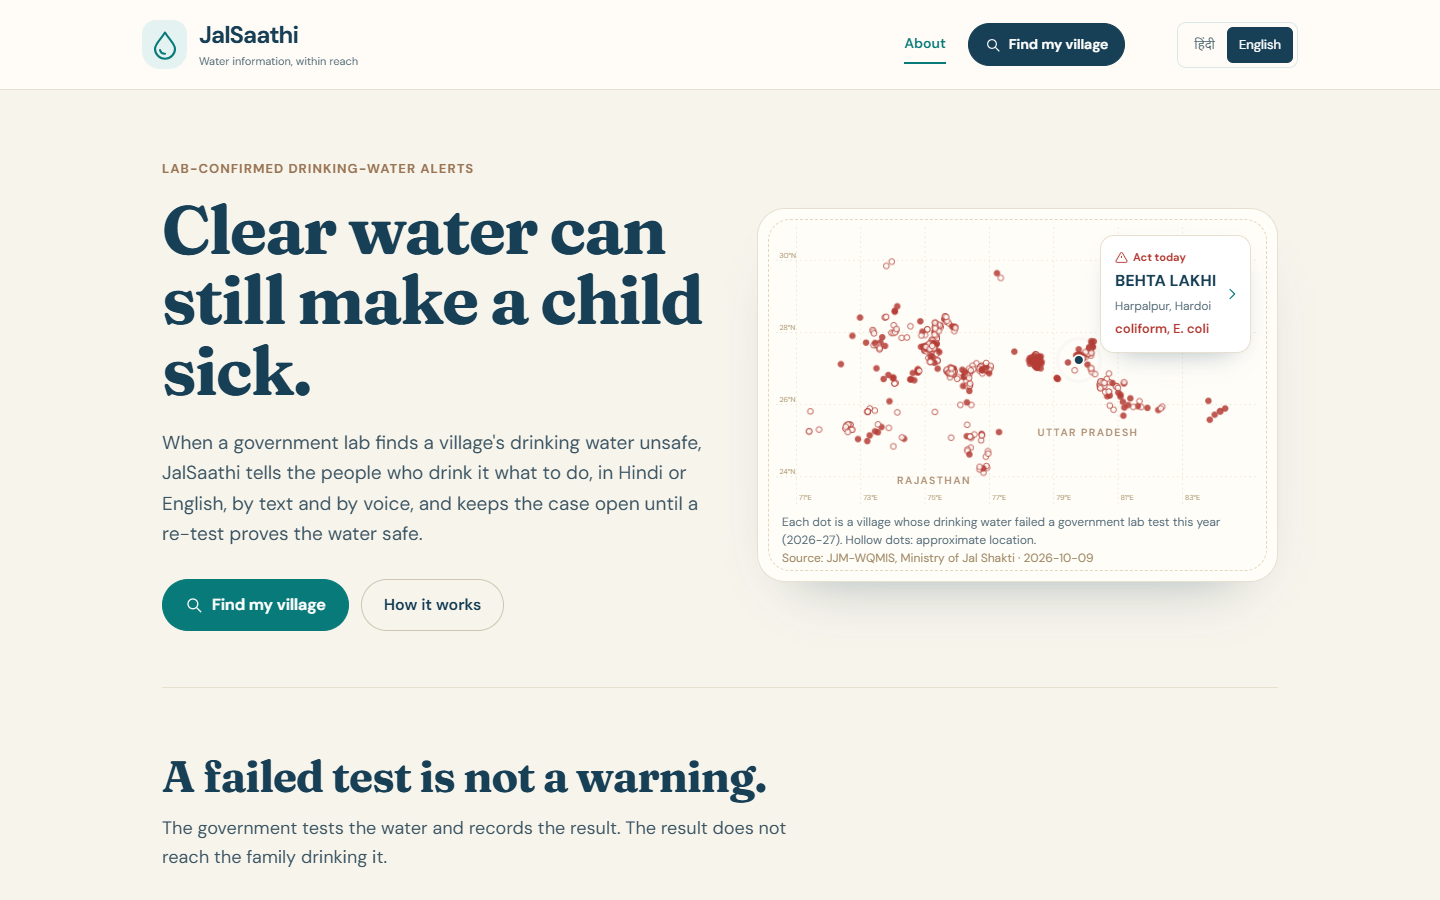
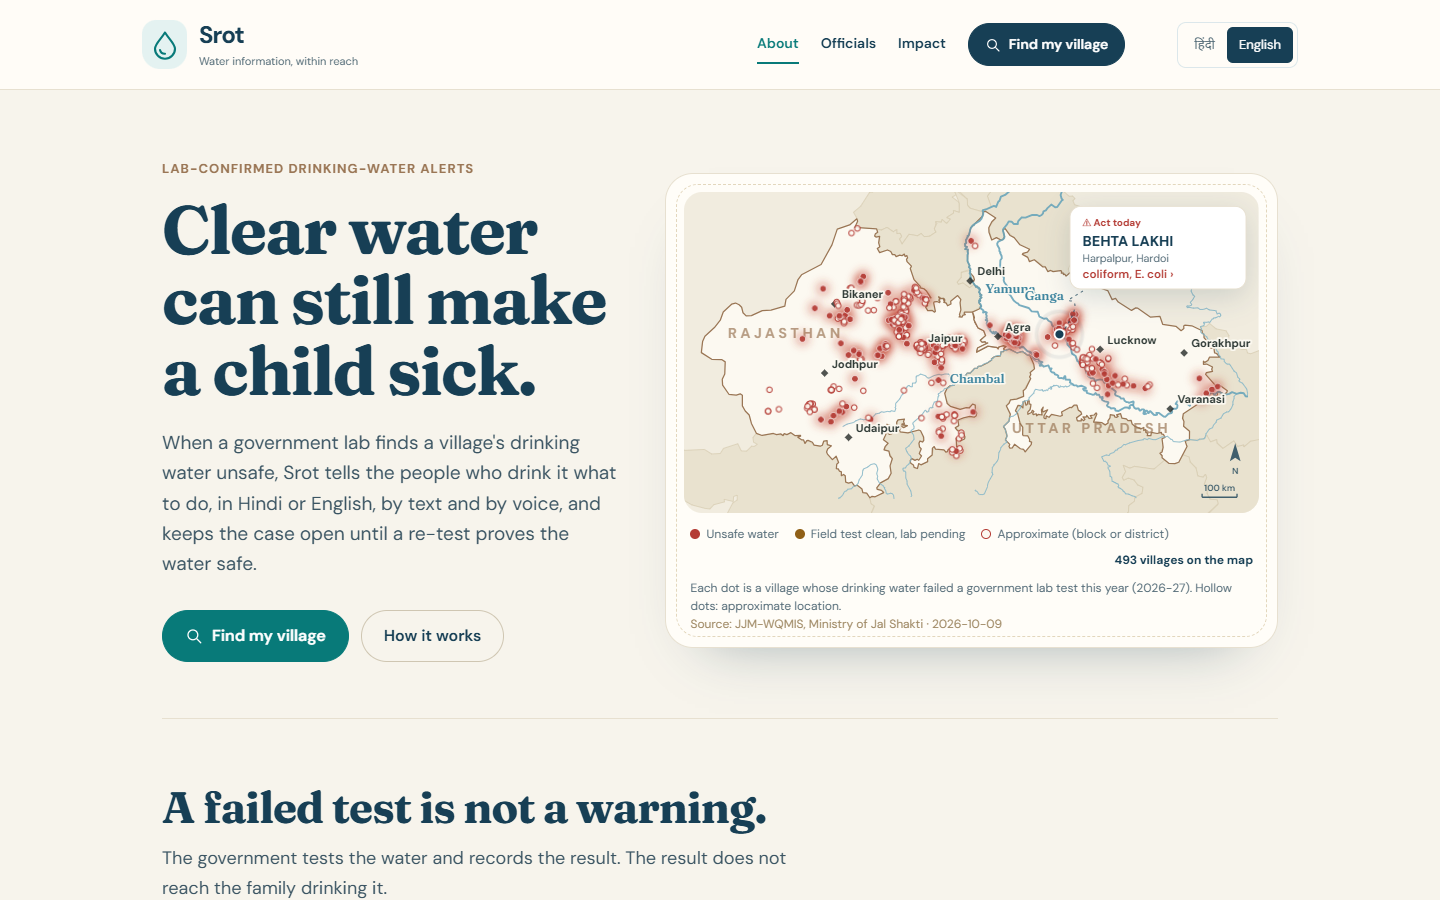
fix: one cost figure everywhere, a complete architecture diagram, Srot screenshots
- /stats scale_run now carries the scale run's own cost estimate; the Impact page
  shows it ($0.4277 for 560 cases), matching the README, submission and video.
  It used to show the last ingest (13 demo cases with voice notes, $0.0098 per case),
  12x the per-case figure quoted everywhere else.
- Architecture diagram redrawn as four lanes in story order, naming every AWS
  service the system uses (Transcribe, Translate, Strands on Bedrock, Guardrails,
  Verified Permissions, Nova vision, SES, Scheduler, X-Ray, CloudWatch were missing);
  no crossing lines; scrolls sideways on phones instead of shrinking.
- docs/img screenshots retaken from the live site after the rename to Srot.
- hotdeploy --code rebuilds the Lambda bundle first (it deployed a stale bundle).
- set_webhook.py also sets the bot's short description.

diff --git a/app/src/pages/Impact.jsx b/app/src/pages/Impact.jsx
@@ -9,75 +9,85 @@ function secs(s) {
   return s < 120 ? `${Math.round(s)} s` : s < 7200 ? `${Math.round(s / 60)} min` : `${(s / 3600).toFixed(1)} h`;
 }
 
-function Box({ x, y, w, h, title, sub, tone = "aws" }) {
+function Box({ x, y, w = 236, h = 60, title, sub, tone = "aws" }) {
   const fill = { aws: "#fff7ec", data: "#eef7fb", people: "#eef8f1", policy: "#fbeeee" }[tone];
   const stroke = { aws: "#e08a00", data: "#1d5a78", people: "#23804f", policy: "#c2412d" }[tone];
   return (
     <g>
       <rect x={x} y={y} width={w} height={h} rx="10" fill={fill} stroke={stroke} strokeWidth="1.5" />
-      <text x={x + w / 2} y={y + (sub ? h / 2 - 3 : h / 2 + 5)} textAnchor="middle" fontSize="14" fontWeight="700" fill="#0b2a3c">{title}</text>
-      {sub && <text x={x + w / 2} y={y + h / 2 + 15} textAnchor="middle" fontSize="11.5" fill="#587080">{sub}</text>}
+      <text x={x + w / 2} y={y + (sub ? h / 2 - 4 : h / 2 + 5)} textAnchor="middle" fontSize="14" fontWeight="700" fill="#0b2a3c">{title}</text>
+      {sub && <text x={x + w / 2} y={y + h / 2 + 14} textAnchor="middle" fontSize="11.5" fill="#587080">{sub}</text>}
     </g>
   );
 }
 
-function Arrow({ d, label, lx, ly }) {
-  return (
-    <g>
-      <path d={d} fill="none" stroke="#587080" strokeWidth="1.6" markerEnd="url(#arrow)" />
-      {label && <text x={lx} y={ly} fontSize="11" fill="#587080" textAnchor="middle">{label}</text>}
-    </g>
-  );
-}
+// Four lanes, read left to right, top to bottom: the same order as the story on the About page.
+const COLS = [24, 296, 568, 840];
+const LANES = [
+  { title: "1 · A FAILED LAB TEST BECOMES A CASE", boxes: [
+    { title: "JJM-WQMIS portal", sub: "government lab results", tone: "data" },
+    { title: "Ingest Lambda", sub: "EventBridge Scheduler · parse · guard" },
+    { title: "Step Functions Distributed Map", sub: "560 cases opened, 0 failed" },
+    { title: "Step Functions, one per case", sub: "task tokens · deadlines · escalation" }] },
+  { title: "2 · THE VILLAGE IS WARNED", boxes: [
+    { title: "Case-step Lambda", sub: "advice for this contaminant" },
+    { title: "Amazon Polly", sub: "Kajal voice, Hindi + English" },
+    { title: "Telegram bot + Web Push", sub: "Lambda function URL · app alerts" },
+    { title: "Health worker, villagers", sub: "Hindi or English, text and voice", tone: "people" }] },
+  { title: "3 · THEY ASK BY VOICE (ASK SROT)", boxes: [
+    { title: "Amazon Transcribe", sub: "streaming, Hindi voice notes" },
+    { title: "Amazon Translate", sub: "Hindi ⇄ English" },
+    { title: "Strands agent · Bedrock", sub: "Nova Pro, reads only this village" },
+    { title: "Bedrock Guardrails", sub: "grounded, or the official advice", tone: "policy" }] },
+  { title: "4 · SOMEONE MUST FIX IT", boxes: [
+    { title: "Block engineer", sub: "logs the fix: web link or Telegram", tone: "people" },
+    { title: "Bedrock · Nova Pro vision", sub: "reads the field-kit vial (advice only)" },
+    { title: "Amazon Verified Permissions", sub: "Cedar: only a lab pass closes", tone: "policy" },
+    { title: "Amazon SES", sub: "overdue cases → district official" }] },
+];
+const FOUNDATION = ["Amazon DynamoDB", "Amazon S3", "Amazon CloudFront", "Amazon API Gateway", "AWS Lambda",
+  "Amazon Location Service", "Amazon EventBridge Scheduler", "AWS Systems Manager Parameter Store", "AWS X-Ray",
+  "Amazon CloudWatch dashboard + metrics", "AWS CDK"];
 
 export function Architecture() {
+  const laneY = (i) => 34 + i * 104;
+  let cx = 24, cy = 482;
+  const chips = FOUNDATION.map((name) => {
+    const w = Math.round(18 + name.length * 6.7);
+    if (cx + w > 1076) { cx = 24; cy += 40; }
+    const chip = { name, x: cx, y: cy, w };
+    cx += w + 10;
+    return chip;
+  });
+  const H = cy + 74;
   return (
-    <svg className="arch" viewBox="0 0 1100 560" role="img" aria-label="Srot architecture on AWS">
-      <defs>
-        <marker id="arrow" viewBox="0 0 10 10" refX="9" refY="5" markerWidth="7" markerHeight="7" orient="auto-start-reverse">
-          <path d="M0 0 L10 5 L0 10 z" fill="#587080" />
-        </marker>
-      </defs>
-      <text x="24" y="34" fontSize="13" fontWeight="700" fill="#587080">DATA</text>
-      <Box x={24} y={48} w={190} h={64} title="JJM-WQMIS portal" sub="government lab results" tone="data" />
-      <Box x={24} y={140} w={190} h={64} title="EventBridge" sub="daily schedule" />
-      <Box x={260} y={92} w={190} h={64} title="Ingest Lambda" sub="parse · guard · plan cases" />
-      <Box x={260} y={186} w={190} h={64} title="Amazon Location" sub="geocode, checked by name" />
-      <Box x={500} y={48} w={200} h={64} title="DynamoDB" sub="villages · cases · timeline" />
-      <Box x={500} y={140} w={200} h={64} title="S3" sub="snapshot · voice notes · photos" />
-
-      <text x="24" y="292" fontSize="13" fontWeight="700" fill="#587080">ONE WORKFLOW PER CASE</text>
-      <Box x={24} y={306} w={210} h={64} title="Step Functions ScaleRun" sub="Distributed Map, ~1 case/s" />
-      <Box x={280} y={306} w={210} h={64} title="Step Functions case" sub="task tokens · deadlines" />
-      <Box x={540} y={306} w={170} h={64} title="Cedar policy" sub="close needs lab pass" tone="policy" />
-      <Box x={280} y={400} w={210} h={64} title="Case-step Lambda" sub="alert · escalate · close" />
-      <Box x={540} y={400} w={170} h={64} title="Amazon Polly" sub="Kajal: Hindi + English" />
-
-      <text x="760" y="34" fontSize="13" fontWeight="700" fill="#587080">PEOPLE</text>
-      <Box x={760} y={48} w={300} h={64} title="Web app (this site)" sub="S3 + CloudFront · Web Push" tone="people" />
-      <Box x={760} y={140} w={300} h={64} title="API Gateway + API Lambda" sub="village, engineer, relay, officials" />
-      <Box x={760} y={232} w={300} h={64} title="Telegram bot" sub="Lambda function URL webhook" tone="people" />
-      <Box x={760} y={324} w={300} h={64} title="Amazon Bedrock · Nova Pro" sub="reads the field-kit photo (advice only)" />
-      <Box x={760} y={416} w={300} h={64} title="Villagers · relays · engineers" sub="Hindi or English, phone first" tone="people" />
-
-      <Arrow d="M214 80 L258 112" />
-      <Arrow d="M214 172 L258 132" />
-      <Arrow d="M355 156 L355 184" />
-      <Arrow d="M450 112 L498 86" />
-      <Arrow d="M450 128 L498 166" />
-      <Arrow d="M355 250 C 355 280 130 280 130 304" label="many cases" lx="240" ly="276" />
-      <Arrow d="M234 338 L278 338" />
-      <Arrow d="M385 370 L385 398" />
-      <Arrow d="M490 338 L538 338" label="every action" lx="514" ly="330" />
-      <Arrow d="M490 432 L538 432" />
-      <Arrow d="M600 112 C 650 112 700 172 758 172" />
-      <Arrow d="M490 418 C 640 418 680 264 758 264" label="alerts" lx="680" ly="300" />
-      <Arrow d="M910 112 L910 138" />
-      <Arrow d="M910 204 L910 230" />
-      <Arrow d="M910 296 L910 322" />
-      <Arrow d="M910 388 L910 414" />
-      <text x="24" y="530" fontSize="12" fill="#587080">AWS CDK (Python) deploys everything in one stack · ap-south-1 (Mumbai) · CloudWatch alarm on ingest failures</text>
-    </svg>
+    <div className="arch-scroll">
+      <svg className="arch" viewBox={`0 0 1100 ${H}`} role="img" aria-label="Srot architecture on AWS">
+        <defs>
+          <marker id="arrow" viewBox="0 0 10 10" refX="9" refY="5" markerWidth="7" markerHeight="7" orient="auto-start-reverse">
+            <path d="M0 0 L10 5 L0 10 z" fill="#587080" />
+          </marker>
+        </defs>
+        {LANES.map((lane, i) => (
+          <g key={lane.title}>
+            <text x="24" y={laneY(i)} fontSize="12.5" fontWeight="700" letterSpacing="0.06em" fill="#587080">{lane.title}</text>
+            {lane.boxes.map((b, j) => <Box key={b.title} x={COLS[j]} y={laneY(i) + 12} {...b} />)}
+            {[0, 1, 2].map((j) => (
+              <path key={j} d={`M${COLS[j] + 238} ${laneY(i) + 42} L${COLS[j + 1] - 3} ${laneY(i) + 42}`}
+                fill="none" stroke="#587080" strokeWidth="1.6" markerEnd="url(#arrow)" />
+            ))}
+          </g>
+        ))}
+        <text x="24" y="470" fontSize="12.5" fontWeight="700" letterSpacing="0.06em" fill="#587080">UNDER ALL OF IT</text>
+        {chips.map((c) => (
+          <g key={c.name}>
+            <rect x={c.x} y={c.y} width={c.w} height="28" rx="14" fill="#f4f7f8" stroke="#c9d6dc" />
+            <text x={c.x + c.w / 2} y={c.y + 18.5} textAnchor="middle" fontSize="12" fill="#0b2a3c">{c.name}</text>
+          </g>
+        ))}
+        <text x="24" y={H - 16} fontSize="12" fill="#587080">One stack, deployed with AWS CDK (Python) to ap-south-1 (Mumbai). Every Lambda and workflow is traced in X-Ray.</text>
+      </svg>
+    </div>
   );
 }
 
@@ -88,7 +98,7 @@ export default function Impact() {
   if (error && !s) return <div className="wrap" style={{ padding: "24px 16px" }}><ErrorBox error={error} onRetry={reload} /></div>;
   const rep = s.repeat_failures;
   const scale = s.scale_run;
-  const cost = s.last_run && s.last_run.cost_estimate;
+  const cost = (scale && scale.cost_estimate) || (s.last_run && s.last_run.cost_estimate); // the scale run, the number quoted elsewhere
   const located = s.villages_on_map;
   const maxBar = rep ? Math.max(...rep.by_state_and_parameter.map((r) => r.failed_last_year)) : 1;
   return (
@@ -104,7 +114,7 @@ export default function Impact() {
         {rep && <div className="card"><b>{rep.totals.both}</b>villages failed the same test again the next year ({Math.round(rep.totals.share_of_last_year_failing_again * 1000) / 10}% of last year's, with half a year still to come)</div>}
         {scale && scale.items && <div className="card"><b>{scale.items.succeeded}/{scale.items.total}</b>case workflows started in one paced run, {scale.items.failed} failed, {secs(scale.seconds)}</div>}
         {s.alert_latency && <div className="card"><b>{secs(s.alert_latency.median_s)}</b>median from failed test found to village warned (p95 {secs(s.alert_latency.p95_s)})</div>}
-        {cost && <div className="card"><b>${cost.usd_total}</b>estimated AWS cost of the last ingest ({cost.usd_per_case ? `$${cost.usd_per_case} per case` : "–"}); voice notes are made only when someone listens</div>}
+        {cost && <div className="card"><b>${cost.usd_total}</b>estimated AWS cost of {scale && scale.cost_estimate ? "the scale run" : "the last ingest"} ({cost.usd_per_case ? `$${cost.usd_per_case} per case` : "–"}); voice notes are made only when someone listens</div>}
         <div className="card weak"><b>{s.villages - located}</b>villages without a trustworthy map pin; most pins are block or district centres, drawn hollow</div>
         <div className="card weak"><b>Simulated</b>lab re-tests in the demo. Real closure needs the lab's re-test result; the field kit only marks a case provisionally safe</div>
       </div>

diff --git a/app/src/styles.css b/app/src/styles.css
@@ -221,6 +221,8 @@ table.data tr.click:hover td { background: #f7fafb; }
 .bars .track span.both { background: var(--red); }
 @media (max-width: 560px) { .bars .bar-row { grid-template-columns: 110px 1fr 56px; } }
 .arch { width: 100%; height: auto; background: #fff; border-radius: var(--radius); border: 1px solid var(--line); }
+.arch-scroll { overflow-x: auto; -webkit-overflow-scrolling: touch; }
+.arch-scroll .arch { display: block; min-width: 880px; }
 
 footer { padding: 30px 0 50px; color: var(--muted); font-size: 13px; }
 .skeleton { background: linear-gradient(90deg, #e9f0f2 25%, #f5f9fa 50%, #e9f0f2 75%); background-size: 200% 100%; animation: shimmer 1.2s infinite; border-radius: 10px; min-height: 18px; }

diff --git a/tests/test_app.py b/tests/test_app.py
@@ -185,3 +185,18 @@ def test_demo_link_works_only_on_demo_cases(monkeypatch, recorded):
     assert _call("POST", "/api/v1/engineer/5037/fix", {"case_id": demo_case["case_id"], "action": "chlorination", "k": "demo"})[0] == 200
     assert _call("POST", "/api/v1/engineer/5037/fix", {"case_id": "c-real", "action": "chlorination", "k": "demo"})[0] == 401
     assert _call("GET", "/api/v1/access", query={"role": "e", "key": "5037", "k": "demo"}) == (200, {"valid": True, "demo": True})
+
+
+def test_scale_status_carries_the_scale_runs_cost(monkeypatch):
+    from datetime import datetime, timezone
+
+    from jalsaathi import api
+
+    t0, t1 = datetime(2026, 10, 9, 18, 33, tzinfo=timezone.utc), datetime(2026, 10, 9, 18, 43, tzinfo=timezone.utc)
+    sfn = type("S", (), {
+        "describe_execution": lambda self, **k: {"status": "SUCCEEDED", "startDate": t0, "stopDate": t1},
+        "list_map_runs": lambda self, **k: {"mapRuns": [{"mapRunArn": "m"}]},
+        "describe_map_run": lambda self, **k: {"itemCounts": {"total": 560, "succeeded": 560, "failed": 0}}})()
+    monkeypatch.setattr(api.config, "client", lambda name: sfn)
+    out = api._scale_status({"scale_execution_arn": "arn", "new_cases": 560, "cost_estimate": {"usd_total": 0.4277}})
+    assert out["items"]["succeeded"] == 560 and out["cost_estimate"]["usd_total"] == 0.4277 and out["cases"] == 560

diff --git a/scripts/hotdeploy.py b/scripts/hotdeploy.py
@@ -2,7 +2,7 @@
 
 Pushes exactly what the CDK stack already declares, so the next `cdk deploy` finds nothing new to change:
 Lambda code and dependency layer, the CloudFront routing function, S3 CORS for photo uploads, the API's Bedrock
-permission, and the web app in frontend/dist. Run scripts/build.py and `npm run build` (in frontend/) first.
+permission, and the web app in frontend/dist. --code rebuilds the Lambda bundle itself; run `npm run build` (in frontend/ and app/) before --site.
 
 Usage: python scripts/hotdeploy.py [--code] [--infra] [--observability] [--site]   (no flags = everything)
 """
@@ -12,6 +12,7 @@ from __future__ import annotations
 import io
 import mimetypes
 import re
+import subprocess
 import sys
 import time
 import zipfile
@@ -172,6 +173,8 @@ def _upload(out: dict, dist: Path, prefix: str) -> None:
 if __name__ == "__main__":
     flags = set(sys.argv[1:]) or {"--code", "--infra", "--observability", "--site"}
     if "--code" in flags:
+        # Rebuild first: zipping a stale build/lambda would silently deploy old code
+        subprocess.run([sys.executable, str(ROOT / "scripts" / "build.py")], check=True)
         deploy_code()
     if "--infra" in flags:
         deploy_infra()

diff --git a/scripts/set_webhook.py b/scripts/set_webhook.py
@@ -15,5 +15,6 @@ telegram("setMyCommands", commands=[
 ])
 telegram("setMyDescription", description=("Srot: सरकारी लैब जांच में आपके गाँव का पानी असुरक्षित पाया जाए तो सूचना, "
                                           "सही सावधानी, और ठीक होने तक मामले पर नज़र। Hindi and English: send /english."))
+telegram("setMyShortDescription", short_description="Srot: village drinking-water alerts from government lab tests, in Hindi and English, with voice notes.")
 info = telegram("getWebhookInfo")["result"]
 print("webhook:", info.get("url") == url, "pending:", info.get("pending_update_count"), "last error:", info.get("last_error_message"))

diff --git a/src/jalsaathi/api.py b/src/jalsaathi/api.py
@@ -63,7 +63,8 @@ def _scale_status(run: dict | None) -> dict | None:
         return None
     sfn = config.client("stepfunctions")
     ex = sfn.describe_execution(executionArn=arn)
-    out = {"status": ex["status"], "started": ex["startDate"].isoformat()}
+    out = {"status": ex["status"], "started": ex["startDate"].isoformat(),
+           "cost_estimate": run.get("cost_estimate"), "cases": run.get("new_cases")}  # the run judged at scale
     if ex.get("stopDate"):
         out.update(stopped=ex["stopDate"].isoformat(), seconds=round((ex["stopDate"] - ex["startDate"]).total_seconds(), 1))
     runs = sfn.list_map_runs(executionArn=arn).get("mapRuns", [])

diff --git a/docs/API.md b/docs/API.md
@@ -99,15 +99,16 @@ A `CaseView` with timeline.
               "finished_at": "...",
               "cost_estimate": {"usd_total": 0.13, "usd_per_case": 0.0098, "usd_by_service": {"polly": 0.12, "...": 0},
                                 "assumptions": {"prices": "approximate on-demand list prices ...", "...": "..."}}},
- "scale_run": {"status": "SUCCEEDED", "started": "...", "stopped": "...", "seconds": 640.2,
-               "items": {"total": 580, "succeeded": 580, "failed": 0, "running": 0, "pending": 0}},
+ "scale_run": {"status": "SUCCEEDED", "started": "...", "stopped": "...", "seconds": 610.9, "cases": 560,
+               "cost_estimate": {"usd_total": 0.4277, "usd_per_case": 0.000764, "...": "..."},
+               "items": {"total": 560, "succeeded": 560, "failed": 0, "running": 0, "pending": 0}},
  "repeat_failures": {"question": "...", "source": "...", "totals": {"last_year": 1233, "this_year": 580, "both": 149,
                      "share_of_last_year_failing_again": 0.121}, "caveats": ["..."], "by_state_and_parameter": [...]}}
 ```
 
 - `alert_latency`: seconds from case opened (failed test found) to village warned. For a scale run this includes the
   deliberate pacing (about one case a second).
-- `scale_run` is `null` unless the last ingest used the ScaleRun state machine.
+- `scale_run` is the most recent ingest that used the ScaleRun state machine (`null` if none), with its own cost estimate; the Impact page shows this cost, since `last_run` is usually the 13-case demo restart.
 
 ## Web app (relays, engineers, officials)
 
